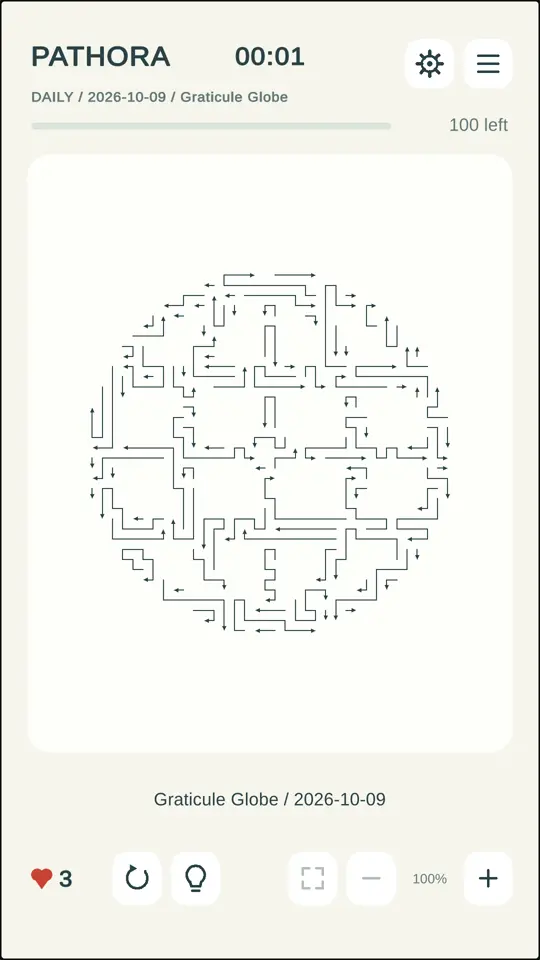
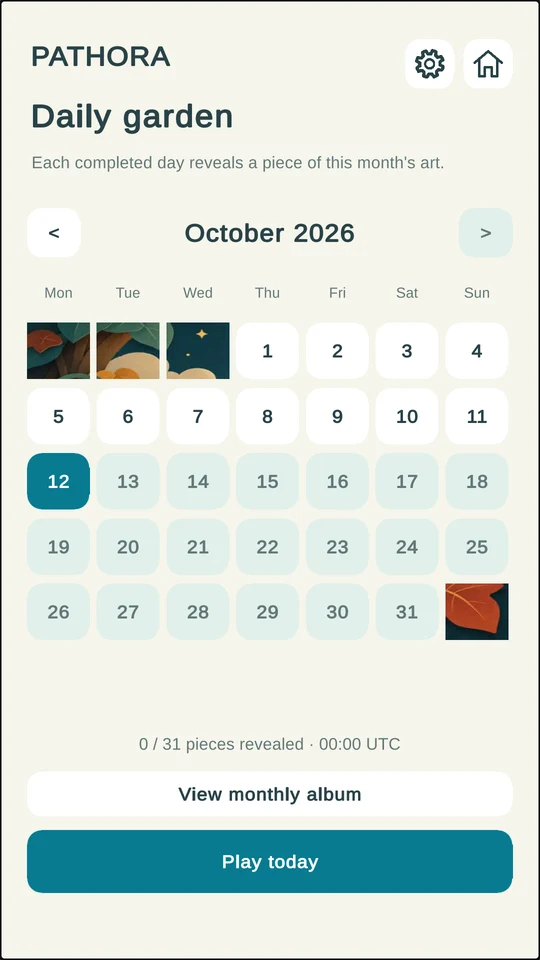
Refresh Pathora features and announce iOS and web coming soon

diff --git a/index.html b/index.html
@@ -1,28 +1,52 @@
 <!doctype html>
-<html lang="en">
-<head>
-  <meta charset="utf-8"><meta name="viewport" content="width=device-width,initial-scale=1">
-  <title>Pathora — Find your clear path</title>
-  <meta name="description" content="A little space to think. Explore winding arrow puzzles, daily shapes and custom challenges in Pathora by Afsanora.">
-  <meta name="theme-color" content="#173e46"><meta property="og:title" content="Pathora — Find your clear path"><meta property="og:description" content="A thoughtful arrow puzzle by Afsanora. One clear path at a time."><meta property="og:type" content="website">
-  <link rel="icon" href="assets/icon.png"><link rel="stylesheet" href="style.css">
-</head>
-<body>
-<a class="skip" href="#main">Skip to content</a>
-<header class="header wrap"><a class="brand" href="./" aria-label="Pathora home"><img src="assets/icon.png" width="44" height="44" alt=""><span>pathora<span class="byline">BY AFSANORA</span></span></a><nav aria-label="Main navigation"><a href="#how-to-play">How to play</a><a href="#explore">Explore</a><a href="privacy/">Privacy</a><a class="nav-button" href="#availability">Get the game <span aria-hidden="true">↗</span></a></nav></header>
-<main id="main">
-<section class="hero wrap">
-  <div class="hero-copy"><p class="eyebrow"><span class="small-line"></span> A LITTLE SPACE TO THINK</p><h1>Find your<br><em>clear path.</em></h1><p class="lead">A tangle of arrows. A moment of focus.<br>Clear the board, one thoughtful move at a time.</p><div class="actions"><a class="button" href="#how-to-play">Discover Pathora <span aria-hidden="true">→</span></a><a class="text-link" href="#availability">Android testing <span aria-hidden="true">↗</span></a></div><p class="quiet">A thoughtful puzzle for teens aged 13 and over and adults.</p></div>
-  <div class="hero-art"><svg class="route" viewBox="0 0 560 660" aria-hidden="true"><path d="M10 500H110V560H210V90H445V200H540"/><path d="M524 184L540 200L524 216"/></svg><span class="art-note">a little tangled.<br>a lot satisfying.</span><div class="phone"><img src="assets/stages.webp" width="540" height="960" alt="Pathora stage 40, showing winding arrow paths and zoom controls"></div><span class="art-caption"><span class="dot"></span> REAL GAMEPLAY</span></div>
-</section>
-<div class="feature-strip"><div class="wrap strip-inner"><span>Play offline</span><i aria-hidden="true">✦</i><span>Keep your progress</span><i aria-hidden="true">✦</i><span>Make room for a little focus</span></div></div>
-<section class="how wrap section" id="how-to-play"><div class="section-title"><p class="eyebrow">THE IDEA IS SIMPLE</p><h2>Every arrow has<br>a way out.</h2><p>The fun is finding the right order.</p></div><div class="steps"><article><span class="step-number">01</span><div><h3>Follow the arrow</h3><p>Find a path with nothing blocking its arrowhead. Tap anywhere along it to send it on its way.</p></div><span class="step-arrow" aria-hidden="true">↗</span></article><article><span class="step-number">02</span><div><h3>Untangle the board</h3><p>One move makes space for another. Plan ahead, zoom in, and use a hint when you need a fresh perspective.</p></div><span class="step-arrow" aria-hidden="true">↳</span></article><article><span class="step-number">03</span><div><h3>Enjoy the all-clear</h3><p>Remove every arrow to finish. Then take on the next puzzle — or save your place and come back later.</p></div><span class="step-arrow" aria-hidden="true">→</span></article></div></section>
-<section class="explore section" id="explore"><div class="wrap"><div class="explore-heading"><div><p class="eyebrow">YOUR NEXT LITTLE CHALLENGE</p><h2>Three ways<br>to find your flow.</h2></div><p>From your first clear path to a board<br>you can truly get lost in.</p></div><div class="modes"><article><div class="screen"><img src="assets/stages.webp" width="540" height="960" loading="lazy" alt="A campaign stage with winding arrows"></div><div class="mode-title"><h3>The journey</h3><span>01</span></div><p>Start simple. Discover denser, more intricate puzzles as you progress through the stages.</p><span class="mode-detail">A gentle start. A growing challenge.</span></article><article><div class="screen"><img src="assets/daily.webp" width="540" height="960" loading="lazy" alt="A daily puzzle arranged into a globe shape"></div><div class="mode-title"><h3>A daily discovery</h3><span>02</span></div><p>Find a new shape each day, play unfinished past challenges, and see your completion times in the calendar. Each completed day reveals part of the monthly artwork. Finish the whole month to collect it in your album.</p><span class="mode-detail">Unlocks after completing stage 10.</span></article><article><div class="screen"><img src="assets/free-play.webp" width="540" height="960" loading="lazy" alt="Free Play settings with width, height and four difficulty choices"></div><div class="mode-title"><h3>Your rules</h3><span>03</span></div><p>Pick a classic board or a playful shape, choose one of five sizes from 10 × 10 to 100 × 100, and set the difficulty from Easy to Extreme. Share a puzzle link with a friend to play the same layout and compare your times.</p><span class="mode-detail">Unlocks after completing stage 50.</span></article></div></div></section>
-<section class="comfort section wrap"><p class="eyebrow">MAKE YOURSELF COMFORTABLE</p><h2>A puzzle that fits<br><em>your pace.</em></h2><div class="comfort-list"><p><strong>Pick up where you paused.</strong> Saved stages and Free Play puzzles keep your place.</p><p><strong>Look a little closer.</strong> Pinch to zoom, move around the board, or fit the whole puzzle into view.</p><p><strong>Keep it calm.</strong> Choose a light, dark or system theme, and adjust sound effects, vibration and reduced motion in Settings.</p><p><strong>Celebrate your milestones.</strong> Browse 15 achievements inside the game and keep cloud saves through Google Play Games on Android. An internet connection and a connected Play Games profile are needed for cloud synchronization.</p></div></section>
-<section class="availability wrap" id="availability"><div><p class="eyebrow">THE FIRST CHAPTER</p><h2>A new path<br>is opening.</h2><p>Pathora is currently in closed testing on Google Play.<br>Invited testers can join using the testing link shared with them.</p><a class="button" href="mailto:pathora@afsanora.com">Contact Afsanora <span aria-hidden="true">↗</span></a></div><div class="availability-aside"><img src="assets/icon.png" width="160" height="160" alt="Pathora app icon"><span>PATHORA / ANDROID</span><p>Public availability will be announced here.</p></div></section>
-<section class="faq wrap section"><p class="eyebrow">GOOD TO KNOW</p><h2>A few clear answers.</h2><details><summary>Who is Pathora designed for?</summary><p>Pathora is designed for teens aged 13 and over and adults who enjoy spatial puzzles and planning ahead. It is not directed to children under 13.</p></details><details><summary>Can I play without an internet connection?</summary><p>Yes. The current Android game generates its stages and daily puzzles locally. You do not need an internet connection to play after installation.</p></details><details><summary>Do I need an account?</summary><p>You do not need a separate Pathora account to play. With Google Play Games integration: when signed in through Google, progress syncs automatically from the main menu and earned achievements are reported to Google. Local play remains available without a connection. Manage automatic sign-in through your Play Games settings.</p></details><details><summary>What happens if I leave a puzzle?</summary><p>Continue stages returns you to your unfinished campaign stage. Free Play has a separate saved puzzle that you can resume from its settings screen.</p></details><details><summary>Does Pathora have ads?</summary><p>The latest Android closed-test build includes optional rewarded test ads for one extra heart or three extra hints. There are no banners or automatic ad breaks. One heart revival is available per puzzle attempt. These demo ads do not generate revenue; an internet connection is needed. Ordinary play remains available offline. See our <a href="privacy/">Privacy Policy</a> for SDK data handling.</p></details><details><summary>How can I send feedback?</summary><p>Email <a href="mailto:pathora@afsanora.com">pathora@afsanora.com</a>. For technical issues, your device model, Android version and a description of what happened can help us investigate. Please avoid sending sensitive personal information.</p></details></section>
-</main>
-<footer class="footer"><div class="wrap"><a class="brand" href="./"><img src="assets/icon.png" width="36" height="36" alt=""><span>pathora</span></a><p>One clear path at a time.</p><div><a href="privacy/">Privacy Policy</a><a href="mailto:pathora@afsanora.com">Contact</a><span>© 2026 Afsanora</span></div></div></footer>
-</body></html>
 
+<html lang="en">
+
+<head>
+
+  <meta charset="utf-8"><meta name="viewport" content="width=device-width,initial-scale=1">
+
+  <title>Pathora — Find your clear path</title>
+
+  <meta name="description" content="A little space to think. Explore winding arrow puzzles, daily shapes and custom challenges in Pathora by Afsanora.">
+
+  <meta name="theme-color" content="#173e46"><meta property="og:title" content="Pathora — Find your clear path"><meta property="og:description" content="A thoughtful arrow puzzle by Afsanora. One clear path at a time."><meta property="og:type" content="website">
+
+  <link rel="icon" href="assets/icon.png"><link rel="stylesheet" href="style.css">
+
+</head>
+
+<body>
+
+<a class="skip" href="#main">Skip to content</a>
+
+<header class="header wrap"><a class="brand" href="./" aria-label="Pathora home"><img src="assets/icon.png" width="44" height="44" alt=""><span>pathora<span class="byline">BY AFSANORA</span></span></a><nav aria-label="Main navigation"><a href="#how-to-play">How to play</a><a href="#explore">Explore</a><a href="privacy/">Privacy</a><a class="nav-button" href="#availability">Get the game <span aria-hidden="true">↗</span></a></nav></header>
+
+<main id="main">
+
+<section class="hero wrap">
+
+  <div class="hero-copy"><p class="eyebrow"><span class="small-line"></span> A LITTLE SPACE TO THINK</p><h1>Find your<br><em>clear path.</em></h1><p class="lead">A tangle of arrows. A moment of focus.<br>Clear the board, one thoughtful move at a time.</p><div class="actions"><a class="button" href="#how-to-play">Discover Pathora <span aria-hidden="true">→</span></a><a class="text-link" href="#availability">Android testing <span aria-hidden="true">↗</span></a></div><p class="quiet">A thoughtful puzzle for teens aged 13 and over and adults.</p></div>
+
+  <div class="hero-art"><svg class="route" viewBox="0 0 560 660" aria-hidden="true"><path d="M10 500H110V560H210V90H445V200H540"/><path d="M524 184L540 200L524 216"/></svg><span class="art-note">a little tangled.<br>a lot satisfying.</span><div class="phone"><img src="assets/stages.webp" width="540" height="960" alt="Pathora stage 50, an arrow puzzle shaped like the number 50"></div><span class="art-caption"><span class="dot"></span> REAL GAMEPLAY</span></div>
+
+</section>
+
+<div class="feature-strip"><div class="wrap strip-inner"><span>Play offline</span><i aria-hidden="true">✦</i><span>Keep your progress</span><i aria-hidden="true">✦</i><span>Make room for a little focus</span></div></div>
+
+<section class="how wrap section" id="how-to-play"><div class="section-title"><p class="eyebrow">THE IDEA IS SIMPLE</p><h2>Every arrow has<br>a way out.</h2><p>The fun is finding the right order.</p></div><div class="steps"><article><span class="step-number">01</span><div><h3>Follow the arrow</h3><p>Find a path with nothing blocking its arrowhead. Tap anywhere along it to send it on its way.</p></div><span class="step-arrow" aria-hidden="true">↗</span></article><article><span class="step-number">02</span><div><h3>Untangle the board</h3><p>One move makes space for another. Plan ahead, zoom in, and use a hint when you need a fresh perspective.</p></div><span class="step-arrow" aria-hidden="true">↳</span></article><article><span class="step-number">03</span><div><h3>Enjoy the all-clear</h3><p>Remove every arrow to finish. Then take on the next puzzle — or save your place and come back later.</p></div><span class="step-arrow" aria-hidden="true">→</span></article></div></section>
+
+<section class="explore section" id="explore"><div class="wrap"><div class="explore-heading"><div><p class="eyebrow">YOUR NEXT LITTLE CHALLENGE</p><h2>Three ways<br>to find your flow.</h2></div><p>From your first clear path to a board<br>you can truly get lost in.</p></div><div class="modes"><article><div class="screen"><img src="assets/stages.webp" width="540" height="960" loading="lazy" alt="Number-shaped campaign milestone with zoom controls"></div><div class="mode-title"><h3>The journey</h3><span>01</span></div><p>Start simple, then explore winding paths, compact challenges and number-shaped milestones. Every campaign stage starts with at least three hearts.</p><span class="mode-detail">A gentle start. A growing challenge.</span></article><article><div class="screen"><img src="assets/daily.webp" width="540" height="960" loading="lazy" alt="Daily calendar with monthly artwork progress"></div><div class="mode-title"><h3>A daily discovery</h3><span>02</span></div><p>Find a new shape each day, play unfinished past challenges, and see your completion times in the calendar. Each completed day reveals part of the monthly artwork. Finish the whole month to collect it in your album and unlock its matching light and dark theme.</p><span class="mode-detail">Unlocks after completing stage 10.</span></article><article><div class="screen"><img src="assets/free-play.webp" width="540" height="960" loading="lazy" alt="Free Play settings with shapes, five board sizes and four difficulty choices"></div><div class="mode-title"><h3>Your rules</h3><span>03</span></div><p>Pick a classic board or a playful shape, choose one of five sizes from 10 × 10 to 100 × 100, and set the difficulty from Easy to Extreme. Share a puzzle link with a friend to play the same layout and compare your times. Or choose Zen: unlimited hearts and hints, with an optional rewarded video to start.</p><span class="mode-detail">Unlocks after completing stage 30.</span></article></div></div></section>
+
+<section class="comfort section wrap"><p class="eyebrow">MAKE YOURSELF COMFORTABLE</p><h2>A puzzle that fits<br><em>your pace.</em></h2><div class="comfort-list"><p><strong>Pick up where you paused.</strong> Saved stages and Free Play puzzles keep your place.</p><p><strong>Look a little closer.</strong> Pinch to zoom, move around the board, or fit the whole puzzle into view.</p><p><strong>Keep it calm.</strong> Choose light, dark or system appearance, unlock seasonal themes, and enjoy gentle music with independent volume controls. Adjust effects, vibration and reduced motion in Settings.</p><p><strong>Celebrate your milestones.</strong> Browse 15 achievements inside the game and keep cloud saves through Google Play Games on Android. An internet connection and a connected Play Games profile are needed for cloud synchronization.</p></div></section>
+
+<section class="availability wrap" id="availability"><div><p class="eyebrow">THE FIRST CHAPTER</p><h2>A new path<br>is opening.</h2><p>Pathora is currently in closed testing on Google Play.<br>Invited testers can join using the testing link shared with them.</p><p><strong>iOS · Coming soon</strong><br>For iPhone and iPad.</p><p><strong>Play in your browser · Coming soon</strong><br>No public web release yet.</p><p>Release dates will be announced here.</p><a class="button" href="mailto:pathora@afsanora.com">Contact Afsanora <span aria-hidden="true">↗</span></a></div><div class="availability-aside"><img src="assets/icon.png" width="160" height="160" alt="Pathora app icon"><span>PATHORA / ANDROID</span><p>Android · Closed testing</p></div></section>
+
+<section class="faq wrap section"><p class="eyebrow">GOOD TO KNOW</p><h2>A few clear answers.</h2><details><summary>Who is Pathora designed for?</summary><p>Pathora is designed for teens aged 13 and over and adults who enjoy spatial puzzles and planning ahead. It is not directed to children under 13.</p></details><details><summary>Can I play without an internet connection?</summary><p>Yes. The current Android game generates its stages and daily puzzles locally. Ordinary campaign, daily and Free Play puzzles work offline after installation. Optional rewarded ads, including starting a new Zen puzzle, require an internet connection.</p></details><details><summary>Do I need an account?</summary><p>You do not need a separate Pathora account to play. With Google Play Games integration: when signed in through Google, progress syncs automatically from the main menu and earned achievements are reported to Google. Local play remains available without a connection. Manage automatic sign-in through your Play Games settings.</p></details><details><summary>What happens if I leave a puzzle?</summary><p>Continue stages returns you to your unfinished campaign stage. Free Play has a separate saved puzzle that you can resume from its settings screen.</p></details><details><summary>Does Pathora have ads?</summary><p>The latest Android closed-test build includes optional rewarded test ads for one extra heart, three extra hints, or starting a Zen puzzle. There are no banners or automatic ad breaks. One heart revival is available per puzzle attempt. These demo ads do not generate revenue; an internet connection is needed. Ordinary play remains available offline. See our <a href="privacy/">Privacy Policy</a> for SDK data handling.</p></details><details><summary>How can I send feedback?</summary><p>Email <a href="mailto:pathora@afsanora.com">pathora@afsanora.com</a>. For technical issues, your device model, Android version and a description of what happened can help us investigate. Please avoid sending sensitive personal information.</p></details></section>
+
+</main>
+
+<footer class="footer"><div class="wrap"><a class="brand" href="./"><img src="assets/icon.png" width="36" height="36" alt=""><span>pathora</span></a><p>One clear path at a time.</p><div><a href="privacy/">Privacy Policy</a><a href="mailto:pathora@afsanora.com">Contact</a><span>© 2026 Afsanora</span></div></div></footer>
+
+</body></html>
 

diff --git a/privacy/index.html b/privacy/index.html
@@ -10,7 +10,7 @@
 <p>Cloud synchronization sends completed stages, unfinished campaign and Free Play puzzles, their remaining arrows, hearts, hints, elapsed times and board position, daily completion dates and times, best records, earned achievements and completed tutorial flags to Google's Saved Games service. These saves are associated with your Play Games profile. Achievement unlocks are also reported to Google. A Play Games player identifier is kept locally to prevent mixing saves belonging to different accounts. Pathora does not store your Google password or request your email address, contacts or friends list for these features.</p>
 <p>Google's SDK processes gamer identity and service information, as well as analytics and diagnostics for service stability and improvement. Achievement visibility to other people depends on your Play Games profile settings. Google encrypts Play Games Services data in transit using HTTPS. See <a href="https://policies.google.com/privacy" rel="noreferrer">Google's Privacy Policy</a> and <a href="https://developer.android.com/games/pgs/data-collection" rel="noreferrer">Google's Play Games Services data disclosures</a>. Google controls retention of data held by its services, subject to your account controls.</p>
 <h2>3. Optional rewarded ads, analytics and permissions</h2>
-<p>Android version 1.0.4 in closed testing uses the Google Mobile Ads SDK with Google's official demo ad identifiers. These are test ads and generate no advertising revenue. Earlier releases without this feature and the browser game do not show ads. There are no banner ads or automatic interstitial ads. You can choose an ad for one extra heart (once per puzzle attempt) or three extra hints when the relevant offer is available. Restarting and ordinary play do not require watching an ad.</p>
+<p>Android closed-test versions starting with 1.0.4 use the Google Mobile Ads SDK with Google's official demo ad identifiers. These are test ads and generate no advertising revenue. Earlier releases without this feature and the browser game do not show ads. There are no banner ads or automatic interstitial ads. You can choose an ad for one extra heart (once per puzzle attempt) or three extra hints when the relevant offer is available. Version 1.0.8 also offers a rewarded video to start a Zen puzzle with unlimited hearts and hints. Restarting and ordinary play do not require watching an ad.</p>
 <p>From version 1.0.7, Pathora does not ask for or collect your date of birth or age. Every optional ad request uses the same conservative child-restricted treatment, regardless of the player's actual age. This is an ad-request setting, not an assessment of your age. Earlier test versions used a date entered in memory to derive a local treatment category; they did not save or transmit the full date. Version 1.0.7 removes that legacy category from local storage on startup. The ad SDK is initialized only after you choose to request an optional rewarded ad.</p>
 <p>Google's Mobile Ads SDK processes IP addresses (which can indicate approximate location), app and ad interactions such as taps and video views, diagnostic information, and device or account identifiers such as app set IDs for advertising, analytics and fraud prevention. Demo ads still involve SDK network requests; they are not a promise of zero data collection. This build removes the Android advertising-ID permission and disables publisher first-party ID use. Other SDK processing may still occur. Ad requests use a maximum content rating of G and disable advertising personalization.</p>
 <p>Google states that Mobile Ads SDK data is encrypted in transit using TLS. See <a href="https://developers.google.com/admob/unity/privacy/play-data-disclosure" rel="noreferrer">Google's Mobile Ads data disclosure</a>, <a href="https://policies.google.com/privacy" rel="noreferrer">Google's Privacy Policy</a> and <a href="https://policies.google.com/technologies/partner-sites" rel="noreferrer">how Google uses information from partner apps</a>. Google controls retention and processing within its services; we do not receive a separate copy of SDK device-level records.</p>
